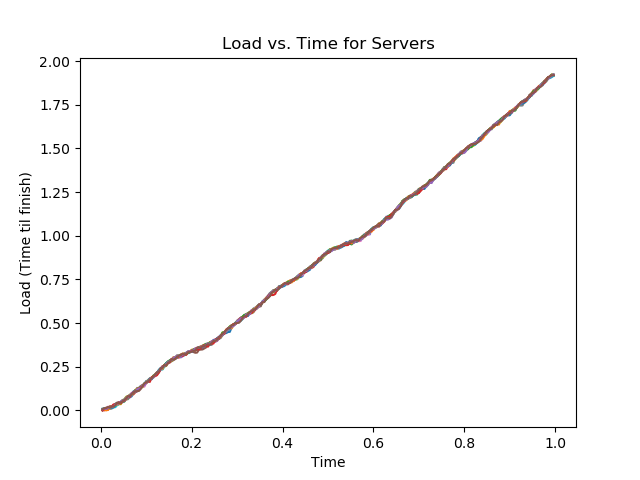
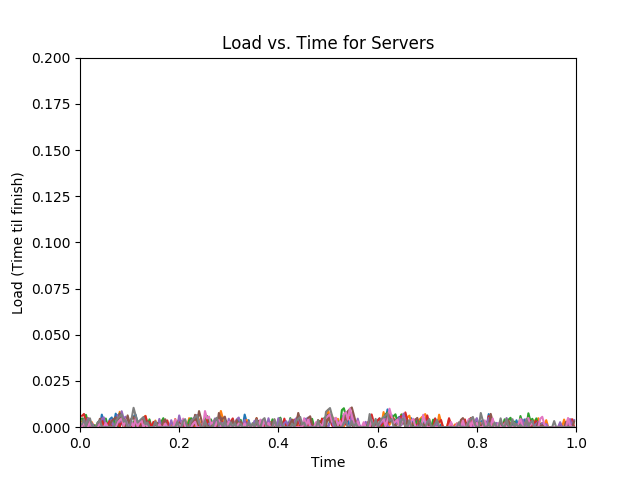
Added port numbers to differentiate flows

diff --git a/main.py b/main.py
@@ -11,16 +11,19 @@ processing_time = 0.005 # time per packet
 '''
 
 # Packet generation variables
-num_flows = 1000
+num_flows = 80
 mean_flow_size = 10
 flow_size_stdev = 2
 max_flow_duration = 0.05
 # Num clients, load balancers, servers
-num_clients = 200
+num_clients = 30
 num_load_balancers = 2
-num_servers = 16
+num_servers = 8
 # Server processing time, time per packet
 processing_time = 0.005
+
+#value for powers of x choices
+powers_of_x_value = 3
 
 
 '''
@@ -35,6 +38,7 @@ processing_time = 0.01 # time per packet
 
 
 assignment_methods = ["RandomAssignment", "ConsistentHashing", "PowersOfTwoNoMemory", "PowersOfTwoWithMemory", "PowersOfXWithMemory"]
+powers_of_x = [2, 4, 8]
 
 #class defining a client/host
 class Client:
@@ -48,11 +52,10 @@ class LoadBalancer:
 		self.connection_table = {}
 
 	def assign_server_random(self, packet, _1, _2):
-		packet_id = packet.clientid
 		return random.randint(0, num_servers - 1)
 
 	def assign_server_hashing(self, packet, _1, _2):
-		return hash(str(packet.clientid)) % num_servers
+		return hash((packet.clientid, packet.port_num)) % num_servers
 
 	def assign_server_power_of_2_choices_no_memory(self, packet, servers, _):
 
@@ -74,11 +77,10 @@ class LoadBalancer:
 		return second_query_server
 
 	def assign_server_power_of_2_choices_with_memory(self, packet, servers, _):
-		#check this is a new flow by checking client id 
-		if packet.clientid in self.connection_table:
-			if packet.time_sent - self.connection_table[packet.clientid][1] < max_flow_duration:
-				self.connection_table[packet.clientid][1] = packet.time_sent
-				return self.connection_table[packet.clientid][0]
+		#check this is a new flow by checking header tuple
+		header_tuple = (packet.clientid, packet.port_num)
+		if header_tuple in self.connection_table:
+			return self.connection_table[header_tuple]
 
 		#pick 2 servers randomly
 		first_query_server = random.randint(0, num_servers - 1)
@@ -94,17 +96,16 @@ class LoadBalancer:
 
 		#pick server with least load, and store it in the connection table to ensure future consistency
 		if first_query_load < second_query_load:
-			self.connection_table[packet.clientid] = [first_query_server, packet.time_sent]
+			self.connection_table[header_tuple] = first_query_server
 			return first_query_server
-		self.connection_table[packet.clientid] = [first_query_server, packet.time_sent]
+		self.connection_table[header_tuple] = second_query_server
 		return second_query_server
 
 	def assign_server_power_of_x_choices_with_memory(self, packet, servers, x):
-		#check this is a new flow by checking client id 
-		if packet.clientid in self.connection_table:
-			if packet.time_sent - self.connection_table[packet.clientid][1] < max_flow_duration:
-				self.connection_table[packet.clientid][1] = packet.time_sent
-				return self.connection_table[packet.clientid][0]
+		#check this is a new flow by checking header tuple
+		header_tuple = (packet.clientid, packet.port_num)
+		if header_tuple in self.connection_table:
+			return self.connection_table[header_tuple]
 
 		if x > num_servers:
 			print("Number of servers too low for power of " + str(x) + " choices.")
@@ -116,10 +117,11 @@ class LoadBalancer:
 		for num in server_nums:
 			loads.append(servers[num].get_load(packet.time_sent))
 
-		min_load_server = loads.index(min(loads))
+		min_load_server_id = loads.index(min(loads))
+		min_server_num = server_nums[min_load_server_id]
 
-		self.connection_table[packet.clientid] = [min_load_server, packet.time_sent]
-		return min_load_server
+		self.connection_table[header_tuple] = min_server_num
+		return min_server_num
 
 	def __repr__(self):
 		return "Load Balancer id: " + str(self.id)	
@@ -169,12 +171,13 @@ class Server:
 
 #class defining a packet
 class Packet:
-	def __init__(self, clientid, time_sent):
+	def __init__(self, clientid, port_number,time_sent):
 		self.clientid = clientid
+		self.port_num = port_number
 		self.time_sent = time_sent
 
 	def __repr__(self):
-		return "Packet from client: " + str(self.clientid) + " @time: " + str(round(self.time_sent,3))
+		return "Packet from client: " + str(self.clientid) + "at port: " + str(self.port_num) +  " @time: " + str(round(self.time_sent,3))
 
 def run_plotter(servers, assignment_method):
 	# Post-Simulation Analysis
@@ -192,48 +195,26 @@ def run_plotter(servers, assignment_method):
 		plt.xlabel('Time')
 		plt.ylabel('Load (Time til finish)')
 		plt.title('Load vs. Time for Servers')
-		# plt.axis([0, 1, 0, 1])
+		plt.axis([0, 1, 0, 0.2])
 
 	plt.savefig('plots/SmallSystemWithFlows/' + assignment_method + '/LoadVsTimeForServers.png')
 	plt.clf()
 
 def run_consistency_check(servers):
 	perFlowConsistent = True
-	conflicting_packets = []
 	for server in servers:
 		for otherServer in servers:
 			if server.id != otherServer.id:
-				clients_both_servers = list(set([packet.clientid for packet in server.packet_history]) & set([packet.clientid for packet in otherServer.packet_history]))
-
-				packets_both_servers = []
 				for packet in server.packet_history:
-					packets_both_servers.append([packet.clientid, packet.time_sent, server.id])
-				for packet in otherServer.packet_history:
-					packets_both_servers.append([packet.clientid, packet.time_sent, otherServer.id])
-				packets_both_servers.sort(key=lambda x: x[1], reverse=False)
-
-				for client in clients_both_servers:
-					lastServer = None
-					lastTime = None
-					for packet in packets_both_servers:
-						if packet[0] == client:
-							if lastServer is None:
-								lastServer = packet[2]
-							else:
-								if packet[2] != lastServer:
-									if packet[1] - lastTime < max_flow_duration:
-										perFlowConsistent = False
-										# conflicting_packets.append([(client, lastServer, round(lastTime, 3), round(packet[1], 3), packet[2])])
-										lastServer = packet[2]
-							lastTime = packet[1]
+					if (packet.clientid, packet.port_num) in [(pckt.clientid, pckt.port_num)for pckt in otherServer.packet_history]:
+						perFlowConsistent = False
+						break
 
 	if perFlowConsistent:
 		print("Per-Flow Consistency Maintained")
 	else:
 		print("Per-Flow Consistency Not Maintained")
-		# print("Flow Inconsistent Packets:")
-		# for packet in conflicting_packets:
-		# 	print(packet)
+
 
 
 def run_simulation(assignment_method):
@@ -245,18 +226,12 @@ def run_simulation(assignment_method):
 		num_packets_in_flow = int(np.random.normal(mean_flow_size, flow_size_stdev))
 		client_of_flow = random.randint(0, num_clients-1)
 		time_of_flow = random.random()
+		port_number = random.randint(1024, 65536)
 		for j in range(num_packets_in_flow):
 			time_of_packet = time_of_flow + (random.random() * (max_flow_duration) - max_flow_duration / 2)
-			packet = Packet(client_of_flow, time_of_packet)
+			packet = Packet(client_of_flow, port_number, time_of_packet)
 			packets.append(packet)
 	packets.sort(key=lambda x: x.time_sent, reverse=False)
-
-	# packets = []
-	# for i in range(num_clients):
-	# 	for j in range(packets_per_client):
-	# 		packet = Packet(i, random.random())
-	# 		packets.append(packet)
-	# packets.sort(key=lambda x: x.time_sent, reverse=False)
 
 	load_balancers = []
 	for i in range(num_load_balancers):
@@ -280,13 +255,14 @@ def run_simulation(assignment_method):
 			"PowersOfXWithMemory": load_balancer.assign_server_power_of_x_choices_with_memory # Per-flow consistency :) + Congestion control :) 
 		}
 		func = switcher.get(assignment_method, lambda: "Invalid assignment method")
-		server_id = func(packet, servers, 2)
+		server_id = func(packet, servers, powers_of_x_value)
 		server = servers[server_id]
 		server.add_packet(packet)
 		#print("Load Balancer " + str(lb_id) + " sent packet from client " + str(packet.clientid) + " to server " + str(server_id))
 
 	run_plotter(servers, assignment_method)
-	# run_consistency_check(servers)
+	run_consistency_check(servers)
+	print()
 
 for method in assignment_methods:
 	run_simulation(method)
